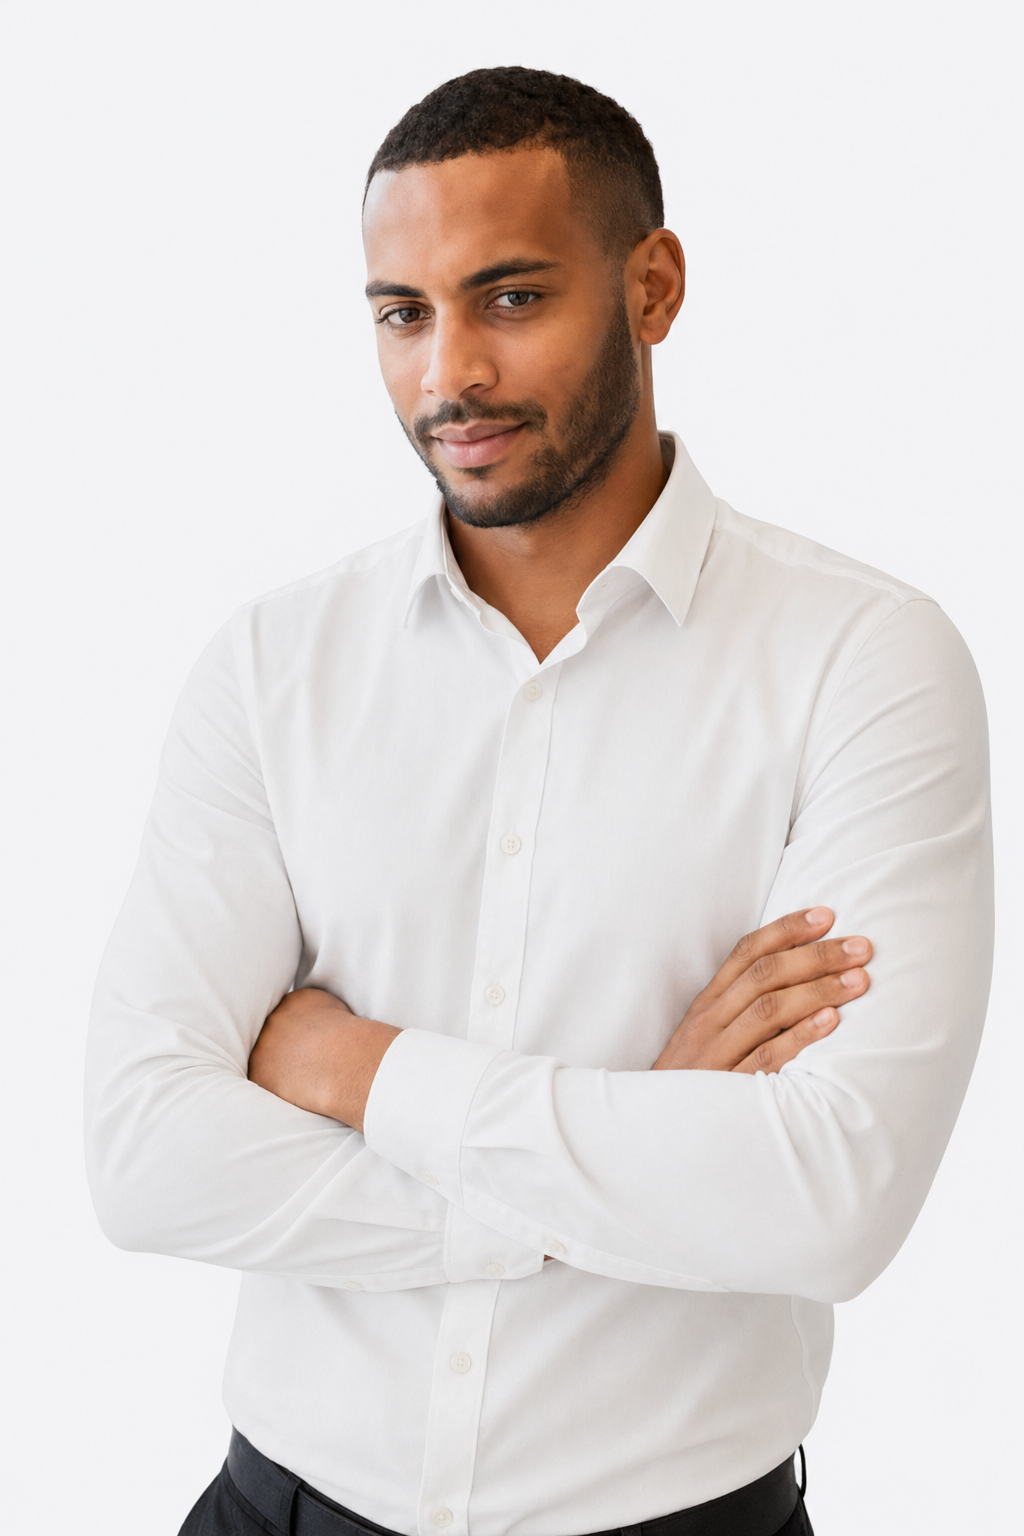
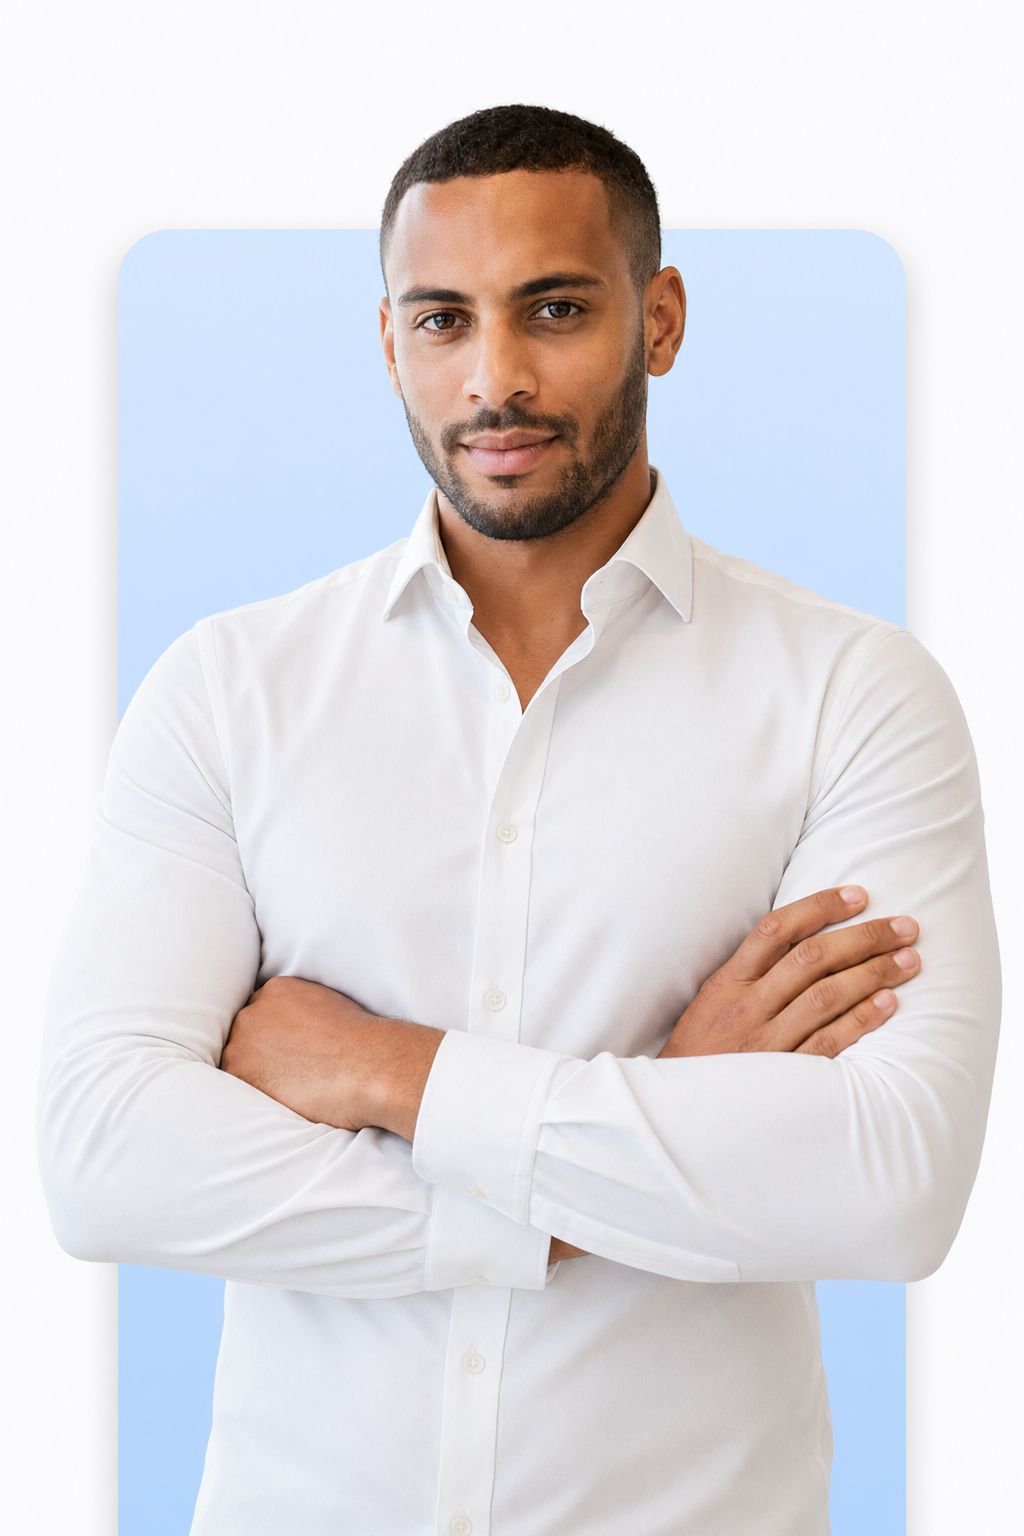
leistungen: Hero-Persona-Cover-Shots als magazine-grade Editorial
3 Personas (Paula/Martin/Jonas) als selbst-enthaltene Cover-Bilder mit
gerendertem Backdrop-Card-Frame + executive Pose + tailored Wardrobe.
CSS-Pop-out-Logik aus .leistung-hero-persona entfernt — Frame ist Teil
des Bildes, nicht mehr CSS-Layer.

diff --git a/styles/site.css b/styles/site.css
@@ -2411,17 +2411,23 @@ section, header.hero {
 }
 .leistung-hero-text { min-width: 0; }
 .leistung-hero-persona {
+  position: relative;
   width: 100%;
-  max-width: 320px;
-  aspect-ratio: 1 / 1;
-  border-radius: var(--dma-radius-card);
-  border: 1px solid var(--dma-dunst);
+  max-width: 360px;
   justify-self: end;
-  box-shadow: 0 18px 40px -28px rgba(15, 23, 42, 0.35);
+}
+.leistung-hero-persona .persona-cover {
+  display: block;
+  width: 100%;
+  height: auto;
 }
 .leistung-hero-persona .headshot-status {
+  position: absolute;
+  bottom: 12px;
+  left: 12px;
   font-size: 11px;
   letter-spacing: 0.08em;
+  z-index: 2;
 }
 .eyebrow-persona {
   display: inline-block;